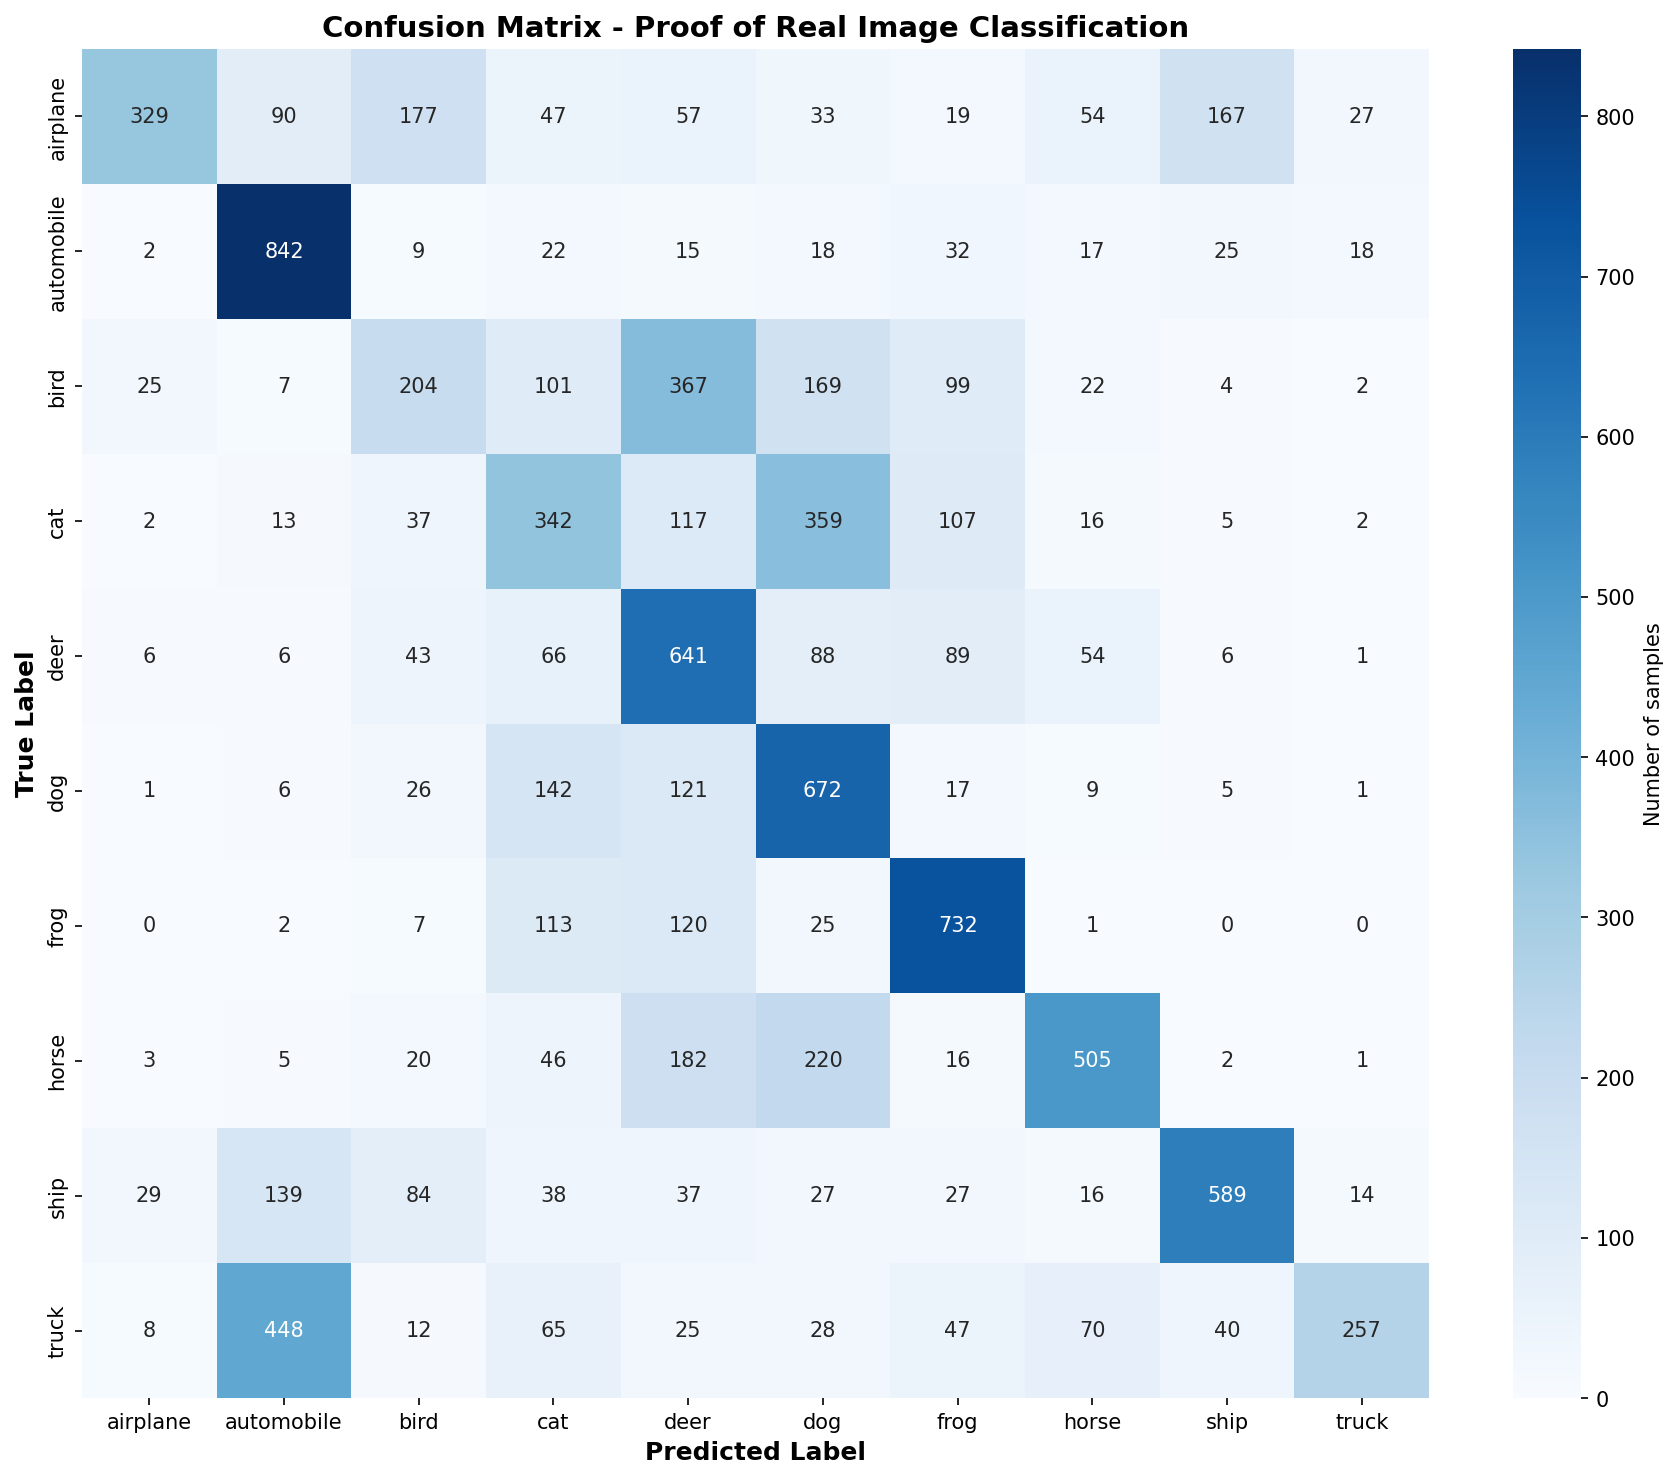
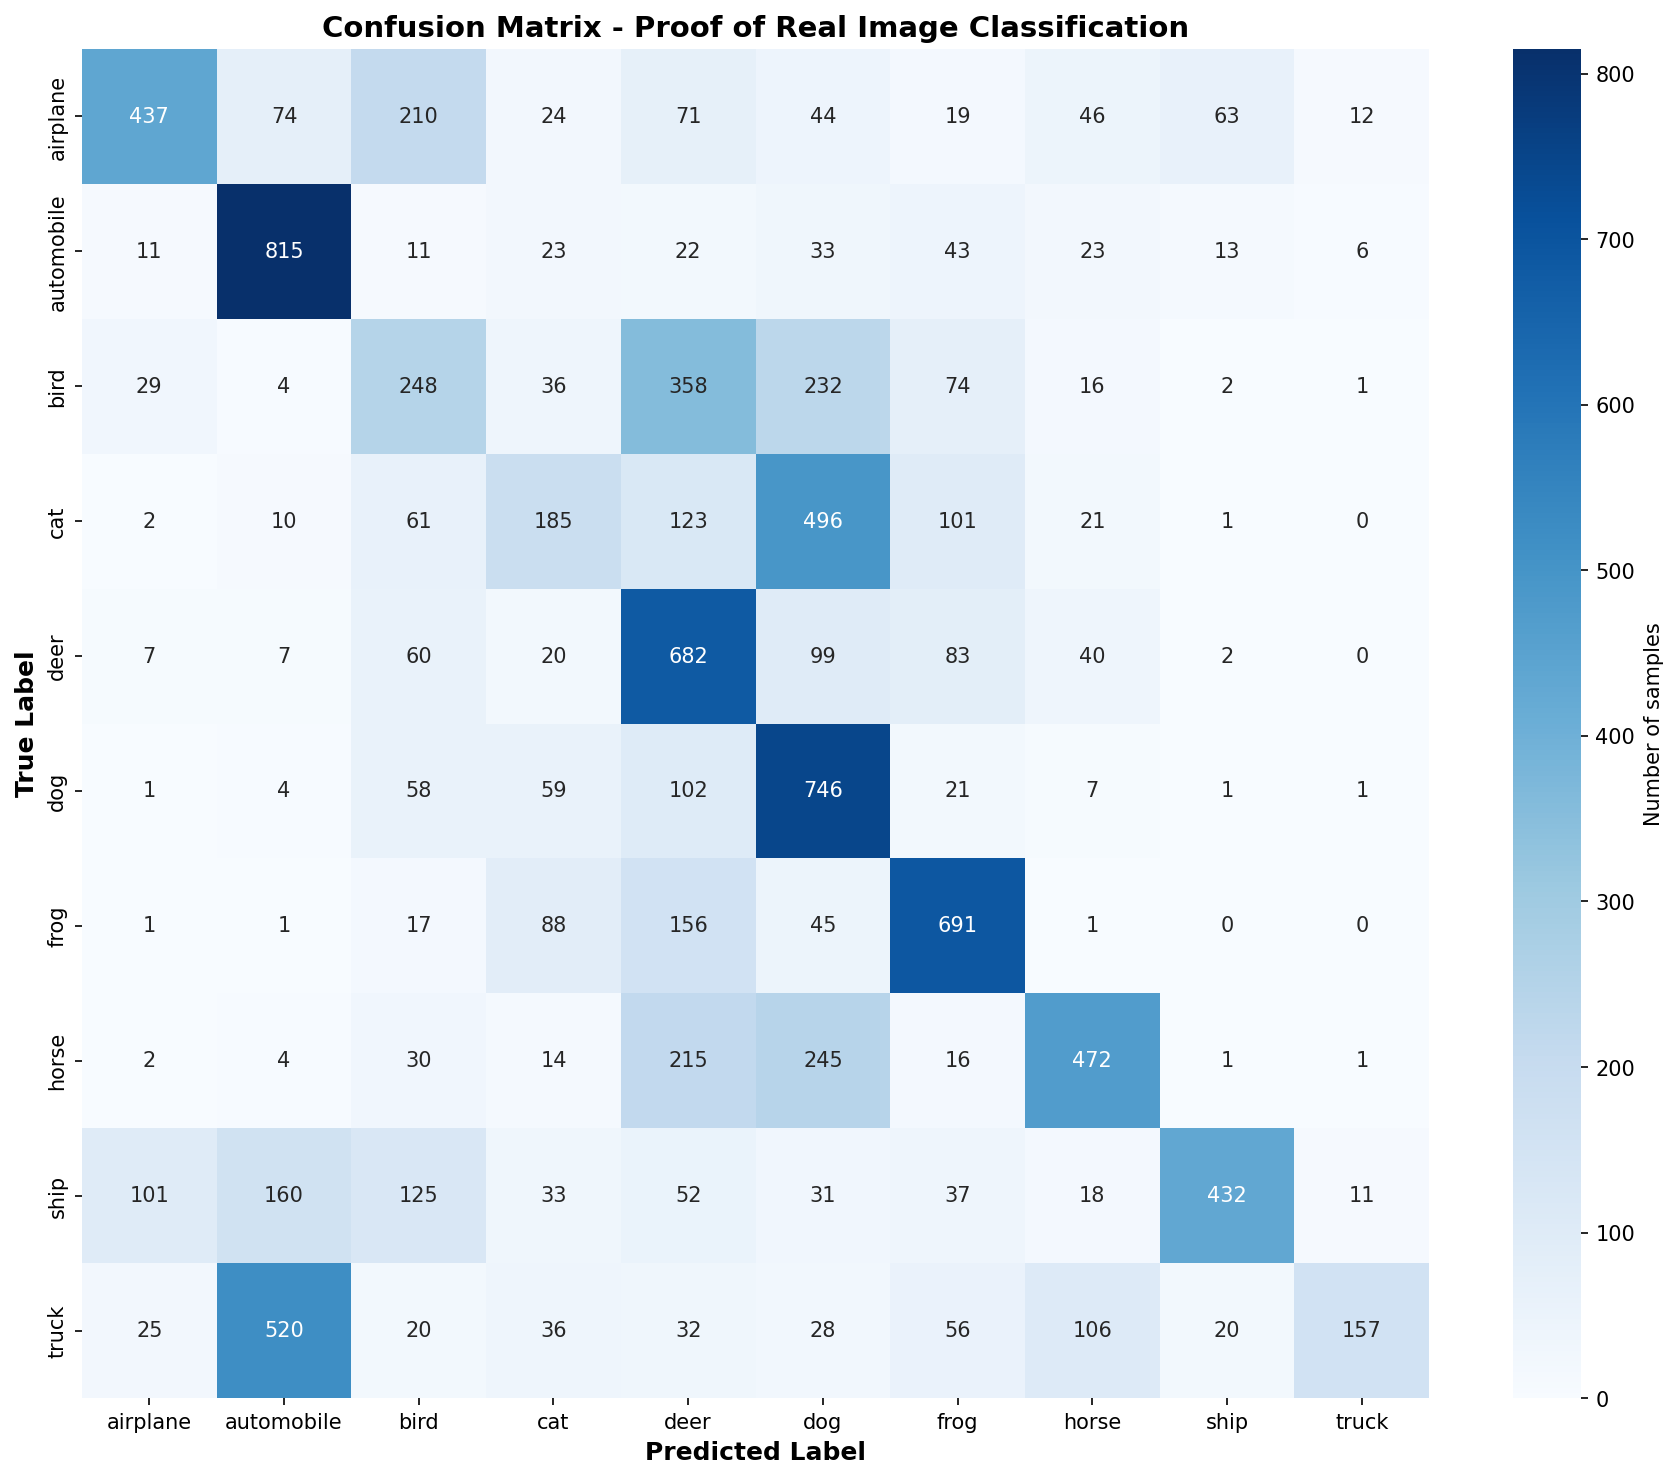
fix weighted average

diff --git a/federated.py b/federated.py
@@ -226,42 +226,48 @@ class FHEModelAggregator:
 
         return encrypted_weights
 
-    def aggregate_encrypted_models(self, client_weights_list):
+    def aggregate_encrypted_models(self, client_weights_list, client_sample_counts):
         """
-        複数クライアントの重みを暗号化したまま平均化する（コアロジック）
+        複数クライアントの重みを暗号化したまま加重平均する（コアロジック）
 
         【処理の流れ】
         1. 各クライアントの重みを暗号化
-        2. レイヤごと、チャンクごとに暗号文を加算（EvalAdd）
-        3. 1/N を乗算して平均化（EvalMult）
-        4. 復号して元のテンソル形状に戻す
+        2. レイヤごと、チャンクごとに暗号文を加重加算（EvalAdd + EvalMult）
+        3. 復号して元のテンソル形状に戻す
 
         【重要なポイント】
         - 暗号文のまま加算・乗算を行うため、サーバは平文の重みを見ることができない
         - これによりクライアントのプライバシーが保護される
+        - 各クライアントのデータ量に応じた加重平均を実現
 
         Args:
             client_weights_list: 各クライアントのstate_dictのリスト
+            client_sample_counts: 各クライアントのサンプル数のリスト
 
         Returns:
-            aggregated_weights: 平均化されたstate_dict（PyTorchテンソル）
+            aggregated_weights: 加重平均されたstate_dict（PyTorchテンソル）
         """
-        print("\n🔒 Starting CKKS model aggregation...")
+        print("\n🔒 Starting CKKS model aggregation with weighted averaging...")
 
         # ========================================
         # ステップ1: 全クライアントの重みを暗号化
         # ========================================
         encrypted_weights_list = []
         for i, client_state_dict in enumerate(client_weights_list):
-            print(f"  🔑 Encrypting weights from Client {i+1}...")
+            print(f"  🔑 Encrypting weights from Client {i+1} (samples: {client_sample_counts[i]})...")
             enc = self.encrypt_model_weights(client_state_dict)
             encrypted_weights_list.append(enc)
 
         # ========================================
-        # ステップ2: レイヤごとに暗号化されたまま集約
+        # ステップ2: レイヤごとに暗号化されたまま加重集約
         # ========================================
         aggregated_weights = {}
-        inv_n = 1.0 / len(encrypted_weights_list)  # 平均化のための係数 (1/N)
+
+        # 総サンプル数を計算
+        total_samples = sum(client_sample_counts)
+        # 各クライアントの重み（加重係数）を計算
+        weights = [count / total_samples for count in client_sample_counts]
+        print(f"  📊 Total samples: {total_samples}, Weights: {[f'{w:.4f}' for w in weights]}")
 
         # バッファ（BatchNormの統計量など）は暗号化せず、最初のクライアントのものを使用
         for buffer_name in self.buffer_names:
@@ -280,20 +286,18 @@ class FHEModelAggregator:
                 # 各クライアントの同じチャンクの暗号文を収集
                 chunk_cts = [client_cts[chunk_idx] for client_cts in layer_cts_list]
 
-                # ========== 準同型加算 ==========
-                # 暗号文のまま加算（N個のクライアントの重みを合計）
-                c_sum = chunk_cts[0]
-                for ct in chunk_cts[1:]:
-                    c_sum = self.cc.EvalAdd(c_sum, ct)
-
-                # ========== 準同型乗算 ==========
-                # 合計を平均化するため、平文定数 1/N を乗算
-                # この操作も暗号文のまま実行される
-                c_avg = self.cc.EvalMult(c_sum, inv_n)
+                # ========== 準同型加重加算 ==========
+                # 暗号文のまま加重加算（各クライアントの重みに加重係数を乗算してから加算）
+                # 最初のクライアントの暗号文に重みを乗算
+                c_weighted_sum = self.cc.EvalMult(chunk_cts[0], weights[0])
+                # 残りのクライアントの暗号文に重みを乗算して加算
+                for i, ct in enumerate(chunk_cts[1:], start=1):
+                    c_weighted = self.cc.EvalMult(ct, weights[i])
+                    c_weighted_sum = self.cc.EvalAdd(c_weighted_sum, c_weighted)
 
                 # ========== 復号 ==========
-                # 秘密鍵で復号して平文の平均値を取得
-                pt_avg = self.cc.Decrypt(c_avg, self.keys.secretKey)
+                # 秘密鍵で復号して平文の加重平均値を取得
+                pt_avg = self.cc.Decrypt(c_weighted_sum, self.keys.secretKey)
                 pt_avg.SetLength(self.batch_size)
                 vals = pt_avg.GetRealPackedValue()  # パックされた値を展開
                 all_vals.extend(vals)
@@ -305,7 +309,7 @@ class FHEModelAggregator:
 
             print(f"  ✅ Aggregated {layer_name} ({num_chunks} chunks) with {len(layer_cts_list)} clients")
 
-        print("✅ CKKS model aggregation completed!")
+        print("✅ CKKS model aggregation completed with weighted averaging!")
         return aggregated_weights
 
 
@@ -652,15 +656,18 @@ class FHEServer:
 
     def aggregate_models_with_fhe(self, client_updates):
         """
-        CKKS でクライアント重みを平均し、グローバルへ適用。
+        CKKS でクライアント重みを加重平均し、グローバルへ適用。
         client_updates: list of (state_dict, num_samples) tuples
         """
         print("🔒 FHE-based model aggregation (OpenFHE CKKS)...")
-        # state_dictのみを抽出
+        # state_dictとサンプル数を分離
         client_weights_list = [state_dict for state_dict, _ in client_updates]
-        aggregated_weights = self.fhe_aggregator.aggregate_encrypted_models(client_weights_list)
+        client_sample_counts = [num_samples for _, num_samples in client_updates]
+        aggregated_weights = self.fhe_aggregator.aggregate_encrypted_models(
+            client_weights_list, client_sample_counts
+        )
         self.global_model.load_state_dict(aggregated_weights)
-        print("🔒 FHE Global model updated")
+        print("🔒 FHE Global model updated with weighted averaging")
 
     def get_global_weights(self):
         """クライアントに配布するためのグローバル重みを返す"""
